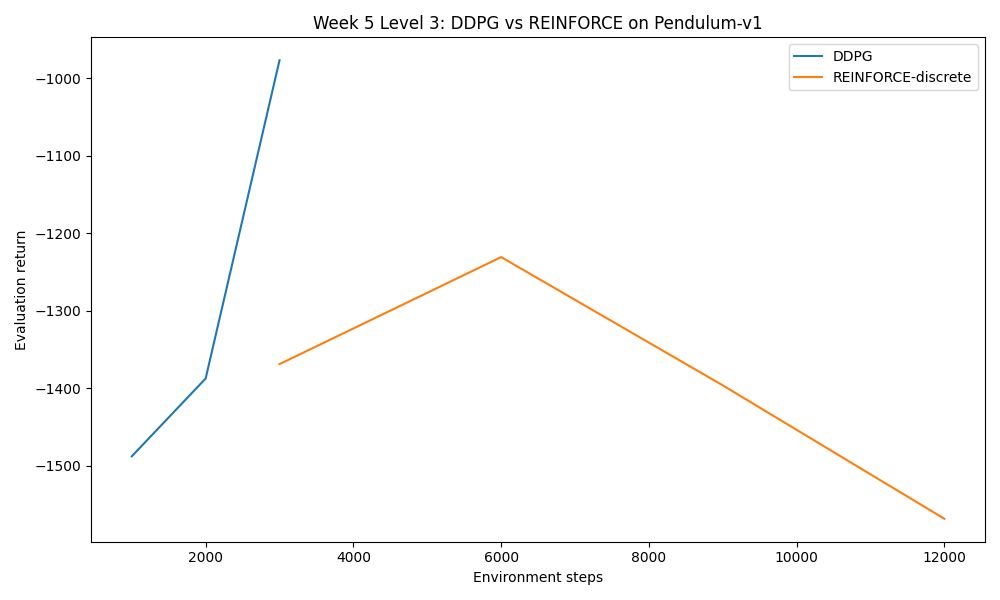
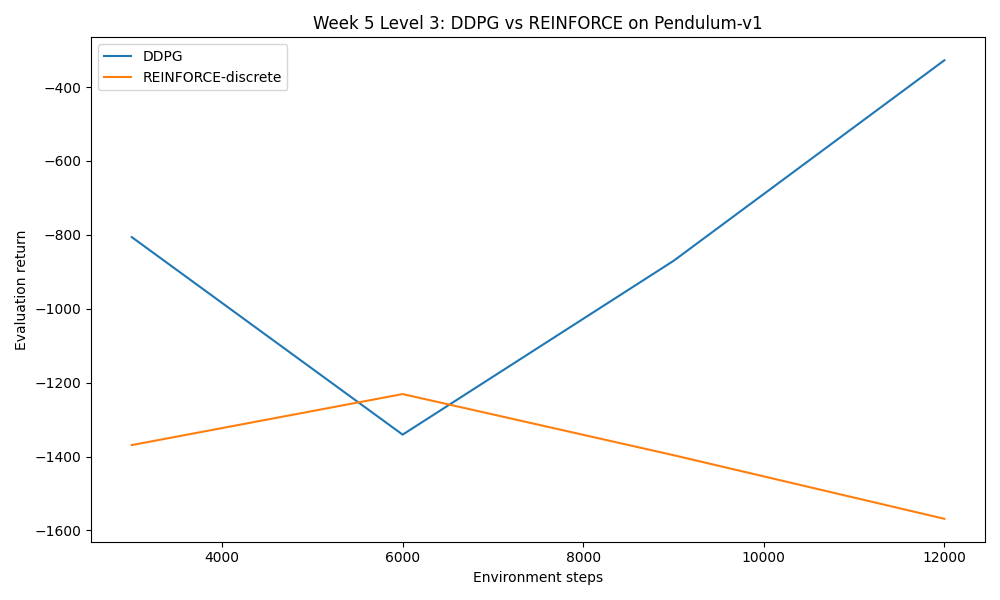
Make week 5 level 3 comparison fair

diff --git a/rl_exercises/week_5/experiments.py b/rl_exercises/week_5/experiments.py
@@ -87,8 +87,8 @@ L3_DDPG_CONFIG: dict[str, Any] = {
     "env_name": "Pendulum-v1",
     "max_episode_steps": 200,
     "seeds": [0],
-    "frames": 3000,
-    "eval_every": 1000,
+    "frames": 12000,
+    "eval_every": 3000,
     "eval_episodes": 3,
     "actor_lr": 1e-4,
     "critic_lr": 1e-3,
@@ -494,6 +494,9 @@ a wrapper with 9 evenly spaced torque actions.
 The run is intentionally small so it can be reproduced quickly:
 - DDPG: {L3_DDPG_CONFIG["frames"]} environment steps, actor_lr={L3_DDPG_CONFIG["actor_lr"]}, critic_lr={L3_DDPG_CONFIG["critic_lr"]}, tau={L3_DDPG_CONFIG["tau"]}
 - REINFORCE: {L3_REINFORCE_CONFIG["episodes"]} episodes with the same episode cap and 9 action bins
+
+Because Pendulum-v1 uses 200-step episodes here, both agents are compared over
+12000 environment steps.
 
 Paper context
 -------------